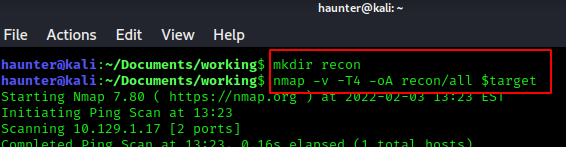
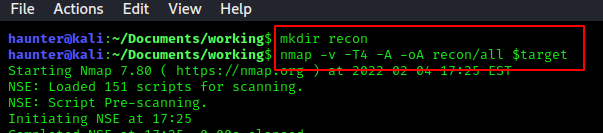
fixed nmap picture

diff --git a/_posts/2022-02-04-HTB-SP-T0-Fawn.md b/_posts/2022-02-04-HTB-SP-T0-Fawn.md
@@ -1,0 +1,99 @@
+---
+layout: post
+title: "HTB Starting Point - Tier 0 - Fawn"
+date: 2022-02-04
+categories: RedOps ctf HTB
+tags: ctf htb RedOps writeup easy fawn
+---
+<img src='/assets/img/ctf/htb/sp/tier0/fawn/fawn.PNG'/>
+
+## Introduction
+
+Fawn is the second in the Tier 0 Starting Point machines. This is another educational system, so I will cover the commands in-depth than I will in future machines, but will build off knowledge from the previous machine, Meow.
+
+## Establishing a Connection
+
+Spawn the bastard and get vpn going.
+
+![The host machine IP](/assets/img/ctf/htb/sp/tier0/fawn/1ip.PNG)
+
+I've confirmed the target is reachable with a `ping`.
+
+## Initial Scan
+
+Unlike the last machine, let's do our default `nmap` scan now and store the results in `recon/all` again and move on to the tasklist.
+
+## The Tasklist
+
+Now that we've established a connection, let's get started on the tasks. These tasks are meant to educate, so make sure you take the extra time to research more about any tasks you are unfamiliar with.
+
+### Task 1
+####  What does the acronym VM stand for?
+**V**irtual **M**achine. You can read my VM config guide ![here]()
+
+### Task 2
+#### What tool do we use to interact with the operating system in order to start our VPN connection? 
+The **Terminal**. You should be living and breathing inside a terminal everyday imo.
+
+### Task 3
+####What service do we use to form our VPN connection?
+**Openvpn** 
+
+### Task 4 
+#### What is the abreviated name for a tunnel interface in the output of your VPN boot-up sequence output? 
+**tun** is short for tunnel.
+
+### Task 5
+#### What tool do we use to test our connection to the target?
+**ping**, we did this at the end of the connection section.
+
+## Our First Scan
+### Task 6
+#### What is the name of the tool we use to scan the target's ports?
+**nmap**, TryHackMe has a great room on this tool [here](https://tryhackme.com/room/furthernmap). This will be one of your most used tools, so get intimate with it!
+
+### Task 7
+#### What service do we identify on port 23/tcp during our scans?
+We should run a default scan from now on once we've established network visibility, as we did earlier. We'll run the following nmap scan as a default:
+
+`nmap -v -T4 -A -oA recon/all $target`
+
+<img src='/assets/img/ctf/htb/sp/tier0/meow/4nmap.png' style='display:block;'/>
+
+`-v`: enable verbose mode. Make this another habit so we always have more info.
+`-T4`: time/throttle speed for the scan. Range is 0 to 5, with 0 being the slowest and 5 the fastest. Slow is more reliable & less 'loud', but can take a considerable amount of time. 5 is extremely fast, but can be inaccurate and trigger many IDS/IPS alerts.
+`-oA recon/all`: This flag combined with A will output the scan results into files in folder 'recon'. This folder must exist before the scan is ran, and can also represent a full dir path. The A stands for 'all' and will create three files formatted each for nmap, xml, and gnmap. See the below image at #1.
+
+<img src='/assets/img/ctf/htb/sp/tier0/meow/5nmap_resultscan.png' style='display:block;'/>
+
+We can view the results by running the following command (above picture at #2):
+`cat recon/all.nmap | less`
+`cat`: This command outputs the contents of a file to the current terminal window. It does not knock stuff off tables without a reason.
+`|`: The 'pipe' is a powerfull tool used to redirect the output of a command to the left `cat` in this instance) to a second command on the right (`less` in this instance).
+`less`: This command let's us paginate output. This is handy, for example, if the contents of our nmap screen is too large to read on our current screen. Without `less`, we'd have to deal with scrolling through output we can be annoying in terminal. With `less`, we can go up and down the output using the `PGUP` and `PGDN` buttons respectively. Once you are done viewing, you can exit with the `q` button.
+
+<img src='/assets/img/ctf/htb/sp/tier0/meow/5nmap_resuls.png' style='display:block;'/>
+
+Here are our scan results. We can see that `telnet` is the service running on `port 23`.
+## Attacking
+### Task 8
+### What username ultimately works with the remote management login prompt for the target?
+If you have not used `telnet` before, run `man telnet` to see the syntax for the command.
+
+`telnet $target` appears to be the basic syntax for attempting a connection. Let's give it a shot.
+
+<img src='/assets/img/ctf/htb/sp/tier0/meow/6telnet.png' style='display:block;'/>
+
+Great! The target is accepting attempts to authenticate. Below we try to connect without a username or password...but are shit out of luck.
+
+For a first try, always try `root`. We try it here, and success:
+
+<img src='/assets/img/ctf/htb/sp/tier0/meow/7telnet_con.png' style='display:block;'/>
+
+### Task 9
+####  Submit root flag
+-Now that we are `in`, let's do a simple `**ls**` and we see our `flag.txt`. `cat` out the contents and you have gotten your first flag! 
+
+<img src='/assets/img/ctf/htb/sp/tier0/meow/8.png' style='display:block;'/>
+
+Note: my flag is blurred out as `sharing a flag is frowned upon`, not because it's full of f-bombs or similar.
